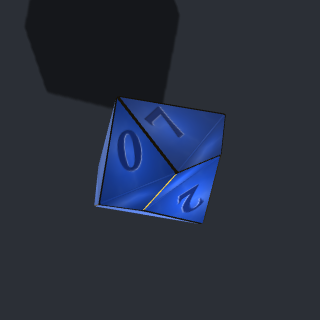
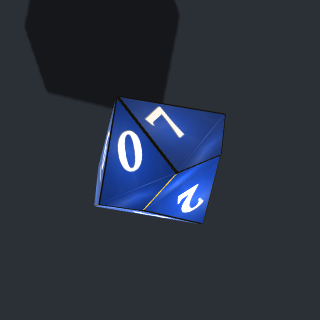
fix: draw at the device pixel ratio, filter set textures anisotropically, lighter jewel numerals
The renderer never set a pixel ratio, so on a Retina display the whole dice
canvas was drawn at half resolution and upscaled; the serif numerals made it
obvious. DiceRoller now defaults to the device ratio capped at 2 (option
pixelRatio, pass 1 to opt out). Set textures take the renderer's maximum
anisotropy so numerals stay sharp on tilted faces; classic textures are
untouched and remain pixel-identical. The three jewel sets switch from dark
to cream numerals: the dark ones measured 1.55:1 against the painted body,
a new test holds every set at 3:1 or better.

diff --git a/src/DiceRoller.js b/src/DiceRoller.js
@@ -6,6 +6,8 @@ import { SoundManager } from './sound-manager.js';
 import { glow, scalePulse, haloRing, runEffectsRules } from './effects/index.js';
 import { resolveSet, CLASSIC } from './sets/index.js';
 import { prepareDiceSets } from './sets/prepare.js';
+import { setTextureAnisotropy } from './sets/texture-cache.js';
+import { resolvePixelRatio } from './pixel-ratio.js';
 
 const DIE_TYPES = ['d4', 'd6', 'd8', 'd10', 'd12', 'd20', 'd100'];
 
@@ -34,6 +36,7 @@ export class DiceRoller {
      * @param {number} [options.throwSpin=20] - Initial throw spin
      * @param {Function} [options.onRollComplete] - Callback when dice settle (main rolls only)
      * @param {string} [options.set] - Default dice set id for every die (see setDefaultSet)
+     * @param {number} [options.pixelRatio] - Canvas pixel ratio; defaults to the device ratio capped at 2. Pass 1 to opt out.
      */
     constructor(options = {}) {
         if (!options.container) {
@@ -45,6 +48,7 @@ export class DiceRoller {
         this.height = options.height || this.container.clientHeight;
         this.throwSpeed = options.throwSpeed || 15;
         this.throwSpin = options.throwSpin || 20;
+        this.pixelRatio = resolvePixelRatio(options.pixelRatio, typeof window !== 'undefined' ? window.devicePixelRatio : 1);
         this.onRollComplete = options.onRollComplete || null;
         // Fires once per batch as it settles, with the same {total, variances, results}
         // object plus a reference to the batch dice. Lets callers schedule per-die effects
@@ -107,7 +111,10 @@ export class DiceRoller {
         this.camera.updateProjectionMatrix();
 
         this.renderer = new THREE.WebGLRenderer({ antialias: true, alpha: true });
+        this.renderer.setPixelRatio(this.pixelRatio);
         this.renderer.setSize(this.width, this.height);
+        // Set textures are filtered anisotropically so numerals stay sharp on tilted faces.
+        setTextureAnisotropy(this.renderer.capabilities.getMaxAnisotropy());
         this.renderer.shadowMap.enabled = true;
         this.renderer.shadowMap.type = THREE.PCFSoftShadowMap;
         this.container.appendChild(this.renderer.domElement);

diff --git a/test/unit/face-materials.test.js b/test/unit/face-materials.test.js
@@ -2,7 +2,7 @@ import { describe, it, expect, beforeEach, afterEach, vi } from 'vitest';
 import * as THREE from 'three';
 import { setCanvasFactories } from '../../src/sets/canvas-factory.js';
 import { buildFaceMaterials, materialCount, PLACEHOLDER_MATERIAL } from '../../src/sets/face-materials.js';
-import { clearDiceSetCaches, cacheSize } from '../../src/sets/texture-cache.js';
+import { clearDiceSetCaches, cacheSize, setTextureAnisotropy } from '../../src/sets/texture-cache.js';
 import { _resetRegistryForTests } from '../../src/sets/index.js';
 import { _setNumeralFontReadyForTests } from '../../src/sets/fonts/numerals.js';
 import { _clearPatternCacheForTests } from '../../src/sets/face-painter.js';
@@ -155,6 +155,17 @@ describe('buildFaceMaterials', () => {
             expect(c.calls.filter((x) => x.name === 'putImageData')).toHaveLength(0);
             expect(c.calls.filter((x) => x.name === 'drawImage').length).toBeGreaterThanOrEqual(1);
         }
+    });
+
+    it('set textures take the configured anisotropy; classic textures are untouched', () => {
+        setTextureAnisotropy(8);
+        const mats = buildFaceMaterials({ type: 'd20', geometry: geometryWithGroups(3), faces: FACES, set: GEM });
+        expect(mats[1].map.anisotropy).toBe(8);
+        expect(mats[1].roughnessMap.anisotropy).toBe(8);
+        expect(mats[1].normalMap.anisotropy).toBe(8);
+        const classic = buildFaceMaterials({ type: 'd20', geometry: geometryWithGroups(2), faces: [null, { text: '1' }], colors: COLORS });
+        expect(classic[1].map.anisotropy).toBe(1);
+        setTextureAnisotropy(1);
     });
 
     it('an unknown set id renders classic and warns', () => {

diff --git a/test/unit/numeral-contrast.test.js b/test/unit/numeral-contrast.test.js
@@ -1,0 +1,32 @@
+import { describe, it, expect } from 'vitest';
+import { listDiceSets, getDiceSet } from '../../src/sets/index.js';
+import { hexToRgb, shade, BODY_EXPOSURE } from '../../src/sets/face-painter.js';
+import { METALS } from '../../src/sets/materials.js';
+
+/** WCAG relative luminance of an #rrggbb colour. */
+function luminance(hex) {
+    const [r, g, b] = hexToRgb(hex).map((c) => {
+        const s = c / 255;
+        return s <= 0.03928 ? s / 12.92 : Math.pow((s + 0.055) / 1.055, 2.4);
+    });
+    return 0.2126 * r + 0.7152 * g + 0.0722 * b;
+}
+function contrast(a, b) {
+    const [hi, lo] = [luminance(a), luminance(b)].sort((x, y) => y - x);
+    return (hi + 0.05) / (lo + 0.05);
+}
+
+describe('numerals stay readable on every built-in set', () => {
+    it('numeral colour vs the painted body colour has at least 3:1 contrast', () => {
+        for (const { id } of listDiceSets()) {
+            if (id === 'classic') continue;
+            const set = getDiceSet(id);
+            const body = shade(set.body.color, BODY_EXPOSURE);                 // what the albedo is actually painted with
+            const numeral = set.numeral.style === 'inlay' ? METALS[set.numeral.metal].color
+                : set.numeral.style === 'glow' ? set.numeral.glow.color
+                : set.numeral.color;
+            const ratio = contrast(numeral, body);
+            expect(ratio, `${id}: ${numeral} on ${body} is ${ratio.toFixed(2)}:1`).toBeGreaterThanOrEqual(3);
+        }
+    });
+});

diff --git a/test/render/fixture.js b/test/render/fixture.js
@@ -43,13 +43,16 @@ window.__renderDie = async (type, setId) => {
     current = die;
 
     roller.renderer.render(roller.scene, roller.camera);
+    // Output in device pixels: at devicePixelRatio 1 (the harness) this is exactly SIZE, so
+    // the baselines are unaffected; at 2 it shows whether the renderer draws at full density.
+    const px = Math.round(SIZE * (window.devicePixelRatio || 1));
     const out = document.createElement('canvas');
-    out.width = out.height = SIZE;
+    out.width = out.height = px;
     const ctx = out.getContext('2d');
     ctx.fillStyle = '#2b2f36';
-    ctx.fillRect(0, 0, SIZE, SIZE);
-    ctx.drawImage(roller.renderer.domElement, 0, 0);
-    window.__renders[`${setId}-${type}`] = ctx.getImageData(0, 0, SIZE, SIZE).data;
+    ctx.fillRect(0, 0, px, px);
+    ctx.drawImage(roller.renderer.domElement, 0, 0, px, px);
+    window.__renders[`${setId}-${type}`] = ctx.getImageData(0, 0, px, px).data;
     return out.toDataURL('image/png');
 };
 

diff --git a/test/unit/pixel-ratio.test.js b/test/unit/pixel-ratio.test.js
@@ -1,0 +1,18 @@
+import { describe, it, expect } from 'vitest';
+import { resolvePixelRatio } from '../../src/pixel-ratio.js';
+
+describe('resolvePixelRatio', () => {
+    it('defaults to the device ratio, capped at 2 (a Retina canvas drawn at 1x reads as pixelated)', () => {
+        expect(resolvePixelRatio(undefined, 2)).toBe(2);
+        expect(resolvePixelRatio(undefined, 1.5)).toBe(1.5);
+        expect(resolvePixelRatio(undefined, 3)).toBe(2);
+        expect(resolvePixelRatio(undefined, undefined)).toBe(1);
+    });
+
+    it('honours an explicit option, including opting out with 1', () => {
+        expect(resolvePixelRatio(1, 3)).toBe(1);
+        expect(resolvePixelRatio(1.25, 2)).toBe(1.25);
+        expect(resolvePixelRatio(0, 2)).toBe(2);       // nonsense falls back to the default, not to 1
+        expect(resolvePixelRatio(-2, 2)).toBe(2);
+    });
+});

diff --git a/src/sets/face-materials.js b/src/sets/face-materials.js
@@ -3,7 +3,7 @@ import { createFaceTexture, createD4FaceTexture } from '../face-texture.js';
 import { CLASSIC, resolveSet } from './index.js';
 import { createEdgeMaterial, createFaceMaterial } from './materials.js';
 import { paintFace, paintNormalMap } from './face-painter.js';
-import { cacheKey, getOrCreateTexture } from './texture-cache.js';
+import { cacheKey, getOrCreateTexture, getTextureAnisotropy } from './texture-cache.js';
 import { isNumeralFontReady, ensureNumeralFont } from './fonts/numerals.js';
 
 /** One material for every slot of a die that is never rendered (prediction bodies). */
@@ -47,6 +47,7 @@ function faceKey(face, isSecret, decals, textOffsetY) {
 
 function canvasTexture(canvas) {
     const texture = new THREE.Texture(canvas);
+    texture.anisotropy = getTextureAnisotropy();
     texture.needsUpdate = true;
     return texture;
 }

diff --git a/src/pixel-ratio.js b/src/pixel-ratio.js
@@ -1,0 +1,11 @@
+/**
+ * Pixel ratio for the WebGL canvas. Drawing at the device ratio keeps numerals and edges
+ * crisp on high-density screens: a Retina canvas drawn at 1x is upscaled by the browser and
+ * every glyph edge doubles. Capped at 2 because 3x displays quadruple the fill cost of a
+ * full-screen dice overlay for no visible gain. Pass `pixelRatio: 1` to opt out entirely.
+ */
+export function resolvePixelRatio(option, deviceRatio) {
+    if (typeof option === 'number' && Number.isFinite(option) && option > 0) return option;
+    const device = typeof deviceRatio === 'number' && Number.isFinite(deviceRatio) && deviceRatio > 0 ? deviceRatio : 1;
+    return Math.min(device, 2);
+}

diff --git a/src/sets/texture-cache.js b/src/sets/texture-cache.js
@@ -6,6 +6,16 @@
 import { clearPatternCache } from './face-painter.js';
 
 const cache = new Map();
+let anisotropy = 1;
+
+/** Anisotropic filtering level for set textures; DiceRoller sets the renderer's maximum. */
+export function setTextureAnisotropy(value) {
+    anisotropy = Math.max(1, Math.floor(Number(value) || 1));
+}
+
+export function getTextureAnisotropy() {
+    return anisotropy;
+}
 
 export function cacheKey(parts) {
     return parts.map((p) => (p === undefined || p === null ? '' : String(p))).join('|');

diff --git a/src/sets/builtin/emerald-jewel.js b/src/sets/builtin/emerald-jewel.js
@@ -14,7 +14,7 @@ export default {
         texture: { kind: 'veins', color2: '#4FD08A', scale: 3, contrast: 0.25 },
     },
     edge: { metal: 'gold' },
-    numeral: { color: '#06261A', style: 'engraved' },
+    numeral: { color: '#F8E9C8', style: 'engraved' },   // cream: dark numerals vanished on the deep body
     decor: { art: 'filigree', metal: 'gold', relief: 0.6 },
     swatch: ['#0F8A4A', '#D4AF37'],
 };

diff --git a/src/sets/builtin/ruby-jewel.js b/src/sets/builtin/ruby-jewel.js
@@ -14,7 +14,7 @@ export default {
         texture: { kind: 'veins', color2: '#E84A6F', scale: 3, contrast: 0.25 },
     },
     edge: { metal: 'gold' },
-    numeral: { color: '#2A0912', style: 'engraved' },
+    numeral: { color: '#F8E9C8', style: 'engraved' },   // cream: dark numerals vanished on the deep body
     decor: { art: 'filigree', metal: 'gold', relief: 0.6 },
     swatch: ['#B5173A', '#D4AF37'],
 };

diff --git a/src/sets/builtin/sapphire-jewel.js b/src/sets/builtin/sapphire-jewel.js
@@ -14,7 +14,7 @@ export default {
         texture: { kind: 'veins', color2: '#5B8CFF', scale: 3, contrast: 0.25 },
     },
     edge: { metal: 'gold' },
-    numeral: { color: '#08123A', style: 'engraved' },
+    numeral: { color: '#F8E9C8', style: 'engraved' },   // cream: dark numerals vanished on the deep body
     decor: { art: 'filigree', metal: 'gold', relief: 0.6 },
     swatch: ['#1C4FD6', '#D4AF37'],
 };
